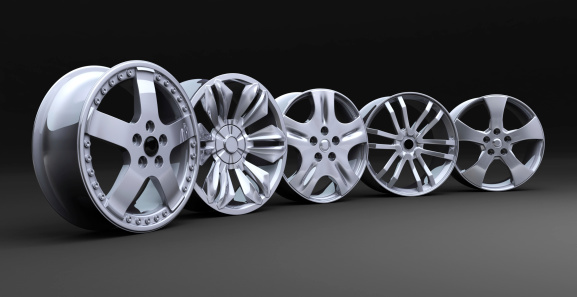
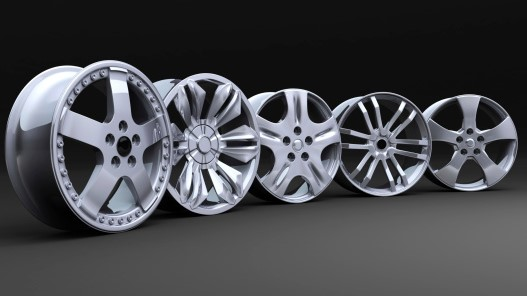
# Frontend Changes

Changed region(s): [[0.0, 0.1824, 1.0, 0.8209]]

diff --git a/resources/views/frontend/pages/index.blade.php b/resources/views/frontend/pages/index.blade.php
@@ -34,7 +34,8 @@
                 <div class="car-wrapper clearfix">
                     <div class="post-media entry">
                         <a href="{{ route('frontend.pages.product',$wheel->id) }}"><img
-                                src="{{ asset('images/placeholder.gif') }}" data-src="{{ imageURL($wheel->product_image)}}" alt="" class="img-responsive"></a>
+                                src="{{ asset('images/placeholder.gif') }}"
+                                data-src="{{ imageURL($wheel->product_image)}}" alt="" class="img-responsive"></a>
                     </div><!-- end post-media -->
 
                     <div class="car-title clearfix text-center">
@@ -61,29 +62,29 @@
             <div class="col-md-3 col-sm-3 col-xs-12 wow fadeIn">
                 <div class="stat-wrap">
                     <i class="flaticon-car"></i>
-                    <p class="stat_count">2545</p>
-                    <small>New Cars For Sale</small>
-                </div><!-- end stat-wrap -->
-            </div><!-- end col -->
-            <div class="col-md-3 col-sm-3 col-xs-12 wow fadeIn">
-                <div class="stat-wrap">
-                    <i class="flaticon-profile"></i>
-                    <p class="stat_count">2545</p>
-                    <small>Satisfied Customers</small>
+                    <p class="stat_count">58840</p>
+                    <small>Wheels</small>
                 </div><!-- end stat-wrap -->
             </div><!-- end col -->
             <div class="col-md-3 col-sm-3 col-xs-12 wow fadeIn">
                 <div class="stat-wrap">
                     <i class="flaticon-vehicle"></i>
-                    <p class="stat_count">2545</p>
-                    <small>Dealer Branches</small>
+                    <p class="stat_count">2244</p>
+                    <small>Tires</small>
                 </div><!-- end stat-wrap -->
             </div><!-- end col -->
             <div class="col-md-3 col-sm-3 col-xs-12 wow fadeIn">
                 <div class="stat-wrap">
                     <i class="flaticon-signs"></i>
-                    <p class="stat_count">1008</p>
-                    <small>Certifications Hold</small>
+                    <p class="stat_count">80</p>
+                    <small>Brands</small>
+                </div><!-- end stat-wrap -->
+            </div><!-- end col -->
+            <div class="col-md-3 col-sm-3 col-xs-12 wow fadeIn">
+                <div class="stat-wrap">
+                    <i class="flaticon-profile"></i>
+                    <p class="stat_count">5000</p>
+                    <small>Customers</small>
                 </div><!-- end stat-wrap -->
             </div><!-- end col -->
         </div><!-- end row -->
@@ -113,22 +114,22 @@
 
         <div class="row">
             @foreach ($response['popular_tires'] as $tire)
-                <div class="col-md-4 col-sm-6 col-xs-12 wow fadeIn">
+            <div class="col-md-4 col-sm-6 col-xs-12 wow fadeIn">
 
-                    <div class="car-wrapper clearfix">
-                        <div class="post-media entry">
-                            <a href="{{ route('frontend.pages.product',$tire->id) }}"><img
-                                    src="{{ asset('images/placeholder.gif') }}" data-src="{{ imageURL($tire->product_image)}}" alt="" class="img-responsive"></a>
-                        </div><!-- end post-media -->
+                <div class="car-wrapper clearfix">
+                    <div class="post-media entry">
+                        <a href="{{ route('frontend.pages.product',$tire->id) }}"><img
+                                src="{{ asset('images/placeholder.gif') }}"
+                                data-src="{{ imageURL($tire->product_image)}}" alt="" class="img-responsive"></a>
+                    </div><!-- end post-media -->
 
-                        <div class="car-title clearfix text-center">
-                            <h4><a
-                                    href="{{ route('frontend.pages.product',$tire->id) }}">{{getProductName($tire->id)}}</a>
-                            </h4>
-                        </div><!-- end car-title -->
-                    </div><!-- end clearfix -->
+                    <div class="car-title clearfix text-center">
+                        <h4><a href="{{ route('frontend.pages.product',$tire->id) }}">{{getProductName($tire->id)}}</a>
+                        </h4>
+                    </div><!-- end car-title -->
+                </div><!-- end clearfix -->
 
-                </div>
+            </div>
             @endforeach
         </div>
 
@@ -137,15 +138,13 @@
         <div class="row">
             <div class="col-md-6 col-sm-6 wow fadeInUp">
                 <div class="post-media">
-                    <a href="#"><img src="{{asset('frontend/uploads/banner_01.jpg')}}" alt=""
-                            class="img-responsive"></a>
+                    <a href="#"><img src="{{asset('frontend/images/banner-3.jpg')}}" alt="" class="img-responsive"></a>
                 </div><!-- end post-media -->
             </div><!-- end col -->
 
             <div class="col-md-6 col-sm-6 wow fadeInUp">
                 <div class="post-media">
-                    <a href="#"><img src="{{asset('frontend/uploads/banner_02.jpg')}}" alt=""
-                            class="img-responsive"></a>
+                    <a href="#"><img src="{{asset('frontend/images/banner-5.jpg')}}" alt="" class="img-responsive"></a>
                 </div><!-- end post-media -->
             </div><!-- end col -->
         </div><!-- end row -->

diff --git a/resources/views/frontend/includes/footer.blade.php b/resources/views/frontend/includes/footer.blade.php
@@ -11,7 +11,7 @@
                     </div><!-- end widget-title -->
                     <div class="about-widget">
                         <p>It is a long established fact that a reader will be distracted by the readable.</p>
-                        <a href="#" class="readmore">Know More</a>
+                        <a href="{{route('frontend.pages.about')}}" class="readmore">Know More</a>
                     </div><!-- end about-widget -->
                 </div><!-- end widget -->
             </div><!-- end col -->
@@ -20,7 +20,7 @@
                 <div class="widget clearfix">
                     <div class="twitter-carousel owl-carousel owl-theme">
                         <div class="twitter-widget clearfix">
-                            <p><i class="flaticon-social-media alignleft"></i> <a href="#">@Designing
+                            <p><i class="flaticon-social-media alignleft"></i> <a href="javascript:void(0)">@Designing
                                     Themes</a>, Engines website expound the actual teachings sed of the great
                                 explorer seds off the truth, the master builder of human happiness of every
                                 customers satisfaction. <small>3hrs ago</small></p>
@@ -50,7 +50,7 @@
                         <li><i class="fa fa-phone"></i> 209-507-1033</li>
                         <li><i class="fa fa-envelope-o"></i> info@tiresstudio.com</li>
                         {{-- <li><i class="fa fa-fax"></i> 209-507-1033</li> --}}
-                        <li><a href="#">Find Us On Map</a></li>
+                        {{-- <li><a href="javascript:void(0)">Find Us On Map</a></li> --}}
                     </ul>
                 </div><!-- end widget -->
             </div><!-- end col -->
@@ -63,12 +63,14 @@
 
                     <ul class="related-post clearfix">
                         <li>
-                            <a href="#">Find latest news about our wheels & tires for easy to choose best
+                            <a href="javascript:void(0)">Find latest news about our wheels & tires for easy to choose
+                                best
                                 one.</a>
                             <small><i class="fa fa-clock-o"></i> Feb 21, 2022</small>
                         </li>
                         <li>
-                            <a href="#">Find latest news about our wheels & tires for easy to choose best
+                            <a href="javascript:void(0)">Find latest news about our wheels & tires for easy to choose
+                                best
                                 one.</a>
                             <small><i class="fa fa-clock-o"></i> Feb 21, 2022</small>
                         </li>
@@ -83,11 +85,11 @@
                     </div><!-- end widget-title -->
 
                     <ul class="tags list-inline">
-                        <li><a href="#">New</a></li>
-                        <li><a href="#">Used</a></li>
-                        <li><a href="#">Wheels</a></li>
-                        <li><a href="#">Tires</a></li>
-                        <li><a href="#">Tiresstudio</a></li>
+                        <li><a href="javascript:void(0)">New</a></li>
+                        <li><a href="javascript:void(0)">Used</a></li>
+                        <li><a href="javascript:void(0)">Wheels</a></li>
+                        <li><a href="javascript:void(0)">Tires</a></li>
+                        <li><a href="javascript:void(0)">Tiresstudio</a></li>
                     </ul><!-- end tags -->
                 </div><!-- end widget -->
 

diff --git a/resources/views/layouts/frontend.blade.php b/resources/views/layouts/frontend.blade.php
@@ -14,15 +14,8 @@
     <meta name="keywords" content="">
 
     <!-- FAVICONS -->
-    <link rel="shortcut icon" href="{{asset('frontend/images/favicon.ico" type="image/x-icon')}}">
-    <link rel="apple-touch-icon" href="{{asset('frontend/images/apple-touch-icon.png')}}">
-    <link rel="apple-touch-icon" sizes="57x57" href="{{asset('frontend/images/apple-touch-icon-57x57.png')}}">
-    <link rel="apple-touch-icon" sizes="72x72" href="{{asset('frontend/images/apple-touch-icon-72x72.png')}}">
-    <link rel="apple-touch-icon" sizes="76x76" href="{{asset('frontend/images/apple-touch-icon-76x76.png')}}">
-    <link rel="apple-touch-icon" sizes="114x114" href="{{asset('frontend/images/apple-touch-icon-114x114.png')}}">
-    <link rel="apple-touch-icon" sizes="120x120" href="{{asset('frontend/images/apple-touch-icon-120x120.png')}}">
-    <link rel="apple-touch-icon" sizes="144x144" href="{{asset('frontend/images/apple-touch-icon-144x144.png')}}">
-    <link rel="apple-touch-icon" sizes="152x152" href="{{asset('frontend/images/apple-touch-icon-152x152.png')}}">
+    <link rel="shortcut icon" href="{{asset('frontend/images/favicon.ico')}}" type="image/x-icon">
+    <link rel="icon" href="{{asset('frontend/images/favicon.ico')}}" type="image/x-icon">
 
     <link rel="stylesheet" type="text/css" href="{{asset('frontend/revolution/settings.css')}}">
     <link rel="stylesheet" type="text/css" href="{{asset('frontend/revolution/layers.css')}}">

diff --git a/resources/views/frontend/includes/header.blade.php b/resources/views/frontend/includes/header.blade.php
@@ -134,10 +134,10 @@
                     <li><a href="{{route('frontend.pages.contact')}}">Contact</a></li>
                 </ul>
                 <ul class="nav navbar-nav navbar-right">
-                    <li class="social-header"><a href="#"><i class="fa fa-facebook"></i></a></li>
-                    <li class="social-header"><a href="#"><i class="fa fa-twitter"></i></a></li>
-                    <li class="social-header"><a href="#"><i class="fa fa-skype"></i></a></li>
-                    {{-- <li class="social-header"><a href="#"><i class="fa fa-linkedin"></i></a></li> --}}
+                    <li class="social-header"><a href="https://www.facebook.com/Tire-Studio-101850355652222"
+                            target="_blank"><i class="fa fa-facebook"></i></a></li>
+                    <li class="social-header"><a href="https://www.instagram.com/tire_studio/" target="_blank"><i
+                                class="fa fa-instagram"></i></a></li>
                     <li class="navbar-cart"><a href="{{route('frontend.cart')}}">Cart <i
                                 class="fa fa-shopping-cart"></i>
                             <small id="cart_items_count">{{ Cart::getContent()->count() }}</small></a></li>

diff --git a/resources/views/frontend/pages/contact.blade.php b/resources/views/frontend/pages/contact.blade.php
@@ -89,10 +89,11 @@
                     <div class="contact-version social-icons">
                         <ul class="list-inline">
                             <li><strong>We Are Social:</strong></li>
-                            <li><a href="#"><i class="fa fa-facebook"></i></a></li>
-                            <li><a href="#"><i class="fa fa-twitter"></i></a></li>
-                            <li><a href="#"><i class="fa fa-skype"></i></a></li>
-                            {{-- <li><a href="#"><i class="fa fa-linkedin"></i></a></li> --}}
+                            <li><a href="https://www.facebook.com/Tire-Studio-101850355652222" target="_blank"><i
+                                        class="fa fa-facebook"></i></a></li>
+                            <li><a href="https://www.instagram.com/tire_studio/" target="_blank"><i
+                                        class="fa fa-instagram"></i></a>
+                            </li>
                         </ul>
                     </div>
                 </div>

diff --git a/resources/views/frontend/includes/slider.blade.php b/resources/views/frontend/includes/slider.blade.php
@@ -11,7 +11,7 @@
                         data-easeout='default' data-masterspeed='default' data-thumb='uploads/slider_01.jpg'
                         data-rotate='0' data-saveperformance='off' data-title='Business Solutions' data-description=''>
                         <!-- MAIN IMAGE -->
-                        <img src="{{asset('frontend/images/banner-2.png')}}" alt="image" data-bgposition="center center"
+                        <img src="{{asset('frontend/images/banner-6.png')}}" alt="image" data-bgposition="center center"
                             data-bgfit="cover" data-bgrepeat="no-repeat" class="rev-slidebg">
                         {{--
                         <!-- LAYERS -->

diff --git a/resources/views/layouts/admin.blade.php b/resources/views/layouts/admin.blade.php
@@ -9,6 +9,9 @@
 
     <title>{{__('Tiresstudio - Dashboard')}}</title>
 
+    <link rel="shortcut icon" href="{{asset('frontend/images/favicon.ico')}}" type="image/x-icon">
+    <link rel="icon" href="{{asset('frontend/images/favicon.ico')}}" type="image/x-icon">
+
     <!-- Font Awesome Icons -->
     <link rel="stylesheet" href="{{asset('admin/plugins/fontawesome-free/css/all.min.css')}}">
     <!-- Theme style -->
